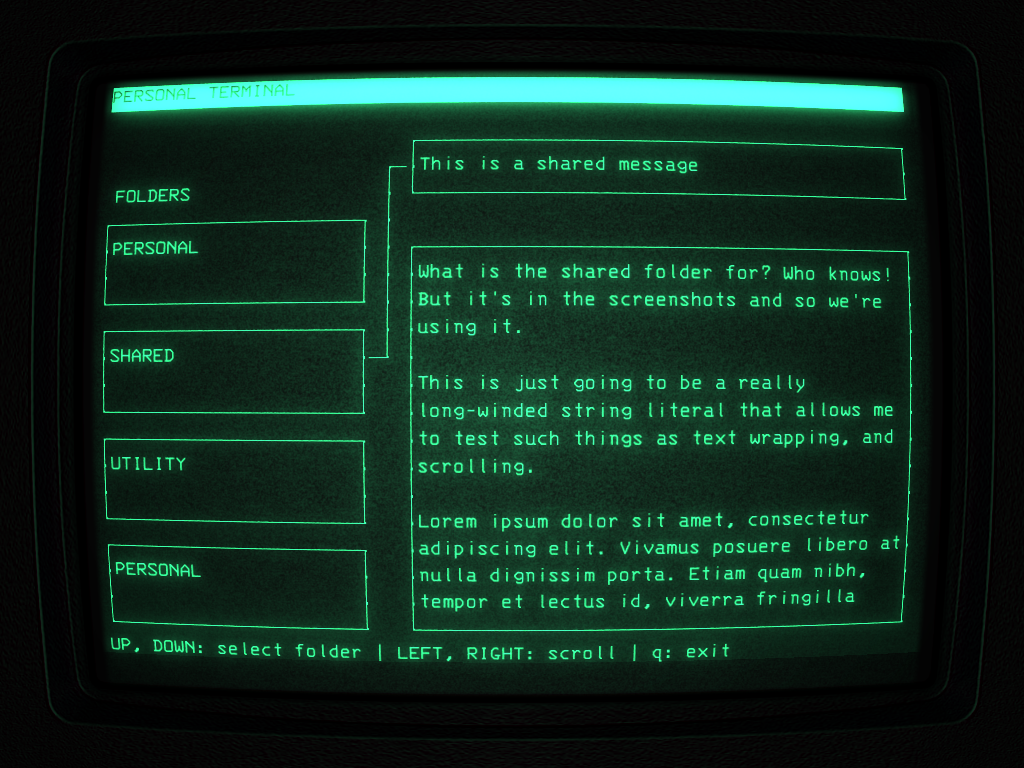
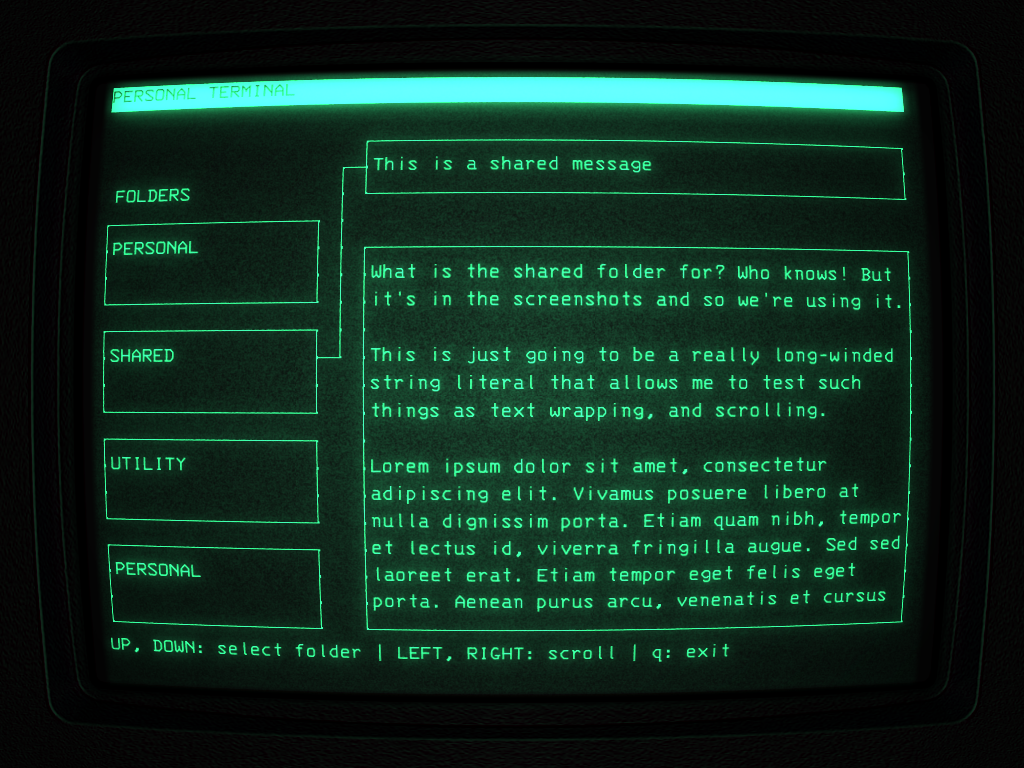
Add some documentation. Make folder boxes narrower. Update image.

diff --git a/src/pt.c b/src/pt.c
@@ -19,6 +19,14 @@
  *
  *   etc etc etc etc
  * +------------------------------------------------------------------------+
+ *
+ * The interfaces here are fairly simple: the folder boxes, the elbow connector,
+ * the content title, and the content text all have windows. Each one has a
+ * function which will redraw it and refresh it (but not doupdate()). The init
+ * function creates all windows, draws all the static stuff, and uses each draw
+ * function to draw everything for the first time. Then the loop function simply
+ * waits for keypresses and calls corresponding functions. These guys just
+ * update the state and then redraw only the things that changed.
  */
 #include <ncurses.h>
 #include <string.h>
@@ -33,7 +41,7 @@
 #define Y_FOLDER_BOX 5
 #define X_FOLDER_BOX 0
 #define H_FOLDER_BOX 4
-#define W_FOLDER_BOX 24
+#define W_FOLDER_BOX 20
 #define N_FOLDER_BOX 4
 
 #define Y_ELBOW_WINDOW 2
@@ -142,8 +150,8 @@ static int wrap_folder_entry(struct personal_terminal *pt,
 }
 
 /**
- * Write a folder entry text body. Uses the selected entry, and the current
- * scroll.
+ * Draws the content box according to the state of the terminal. Hopefully,
+ * you've wrapped the text already!
  */
 static void draw_content_text(struct personal_terminal *pt)
 {
@@ -187,6 +195,10 @@ static void draw_content_text(struct personal_terminal *pt)
 	return;
 }
 
+/**
+ * Draws the elbow box, which contains the little elbow connector that joins
+ * the selected folder with the content title.
+ */
 static void draw_elbow_box(struct personal_terminal *pt)
 {
 	unsigned int i;
@@ -209,6 +221,9 @@ static void draw_elbow_box(struct personal_terminal *pt)
 	wnoutrefresh(pt->elbow_box);
 }
 
+/**
+ * Draws the content title. Not much special here.
+ */
 static void draw_content_title(struct personal_terminal *pt)
 {
 	wclear(pt->content_title);
@@ -219,6 +234,12 @@ static void draw_content_title(struct personal_terminal *pt)
 	wnoutrefresh(pt->content_title);
 }
 
+/**
+ * Draws the folder box. This never gets cleared, and as a result we can skip
+ * the overhead of drawing the text each time, and simply do the outline. This
+ * function will insert a connector for the elbow at the appropriate location.
+ * It will also select the appropriate attributes for printing.
+ */
 static void draw_folder_box_outline(struct personal_terminal *pt,
                                     unsigned int i)
 {
@@ -232,6 +253,10 @@ static void draw_folder_box_outline(struct personal_terminal *pt,
 	wnoutrefresh(pt->folder_box[i]);
 }
 
+/**
+ * Select a new folder, index i. If the folder is out of range, don't bother.
+ * This will call the appropriate redrawing code.
+ */
 static void select_folder(struct personal_terminal *pt, int i)
 {
 	if (i < 0 || i >= N_FOLDER_BOX)
@@ -249,6 +274,9 @@ static void select_folder(struct personal_terminal *pt, int i)
 	draw_folder_box_outline(pt, pt->selected);
 }
 
+/**
+ * Do a scroll up operation (if possible) and then redraw.
+ */
 static void scroll_up(struct personal_terminal *pt)
 {
 	if (pt->scroll <= 0)
@@ -258,6 +286,9 @@ static void scroll_up(struct personal_terminal *pt)
 	draw_content_text(pt);
 }
 
+/**
+ * Do a scroll down operation (if possible) and then redraw.
+ */
 static void scroll_down(struct personal_terminal *pt)
 {
 	int maxy, maxx, height;
@@ -271,6 +302,9 @@ static void scroll_down(struct personal_terminal *pt)
 	draw_content_text(pt);
 }
 
+/**
+ * Initialize the curses resources and do a first draw of the personal terminal.
+ */
 static int init_personal_terminal(struct personal_terminal *pt)
 {
 	unsigned int i;
@@ -334,6 +368,9 @@ static int init_personal_terminal(struct personal_terminal *pt)
 	return 0;
 }
 
+/**
+ * Handle key presses from the personal terminal.
+ */
 static void personal_terminal_loop(struct personal_terminal *pt)
 {
 	int key;
@@ -356,6 +393,11 @@ static void personal_terminal_loop(struct personal_terminal *pt)
 	}
 }
 
+/**
+ * Run the whole personal terminal, start to finish. Right now this uses some
+ * pre-coded folder entries. Later, I'm assuming that I will have some sort of
+ * configuration so it doesn't have to be hand made.
+ */
 int personal_terminal(void)
 {
 	struct personal_terminal pt;
